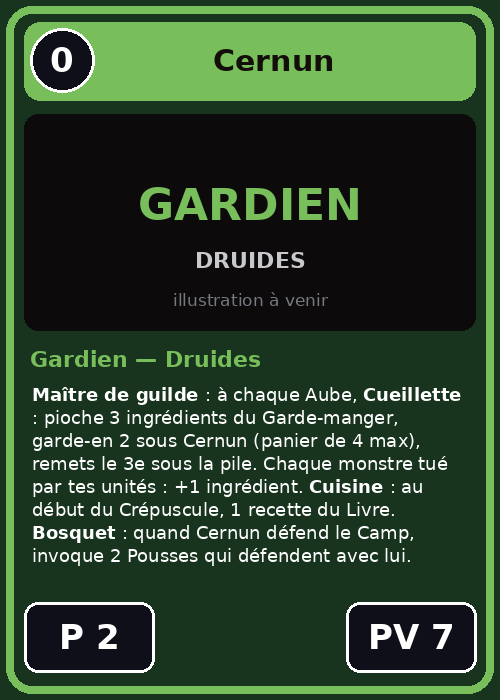
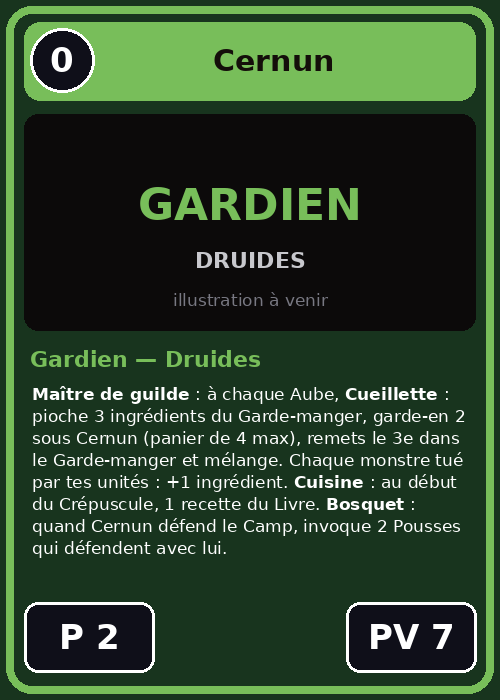
Réserve : clic pour piocher, boutons Piocher 1 / Piocher 3 / Mélanger dans le panneau Donjon ; ingrédients remélangés au lieu d'aller sous la pile
Claude-Session: https://claude.ai/code/session_01Ei1ETxKFF4cSM4RwXRQ4jQ

Changed region(s): [[0.06, 0.54, 0.93, 0.81]]

diff --git a/tools/generate.py b/tools/generate.py
@@ -99,13 +99,13 @@ CARDS = [
     # --- Druides : Cernun et son livre ---
     C("cernun", "Cernun", "Gardien", 0, DRU,
       "**Maître de guilde** : à chaque Aube, **Cueillette** : pioche 3 ingrédients du Garde-manger, "
-      "garde-en 2 sous Cernun (panier de 4 max), remets le 3e sous la pile. Chaque monstre tué par tes unités : "
+      "garde-en 2 sous Cernun (panier de 4 max), remets le 3e dans le Garde-manger et mélange. Chaque monstre tué par tes unités : "
       "+1 ingrédient. **Cuisine** : au début du Crépuscule, 1 recette du Livre. "
       "**Bosquet** : quand Cernun défend le Camp, invoque 2 Pousses qui défendent avec lui.",
       2, 7, legal=1, tokens=["pousse"]),
     C("livre-recettes", "Livre de recettes", "Recettes", 0, DRU,
       "1 recette par tour, au début du Crépuscule ; effet jusqu'à la fin du tour. Les ingrédients "
-      "retournent sous le Garde-manger.\n"
+      "retournent dans le Garde-manger, puis mélange.\n"
       "**Soupe de racines** (Racine + Champignon) : tes unités +2 PV. "
       "\n**Tarte aux baies** (Baies + Miel) : tes unités +1 Puissance. "
       "\n**Tisane des bois** (Herbes + Miel) : soigne tes unités d'une salle, elles ne peuvent pas être Sonnées. "
@@ -121,7 +121,7 @@ CARDS = [
     # --- Druides : unités ---
     C("lutin", "Lutin des mousses", "Unite", 1, DRU, "**Arrivée** : invoque une Pousse (1/1) à côté de lui.", 1, 1, tokens=["pousse"]),
     C("chouette", "Chouette guetteuse", "Unite", 1, DRU,
-      "**Arrivée** : regarde les 2 premières cartes du Garde-manger et remets-les dans l'ordre de ton choix.", 1, 2),
+      "**Arrivée** : pioche 2 ingrédients, garde-en 1 dans ton panier, remets l'autre et mélange le Garde-manger.", 1, 2),
     C("cueilleuse", "Cueilleuse", "Unite", 2, DRU,
       "**Nuit** : si elle est dans une salle, pioche 1 ingrédient (dans ton panier).", 1, 3),
     C("invocateur", "Invocateur de la clairière", "Unite", 2, DRU,
